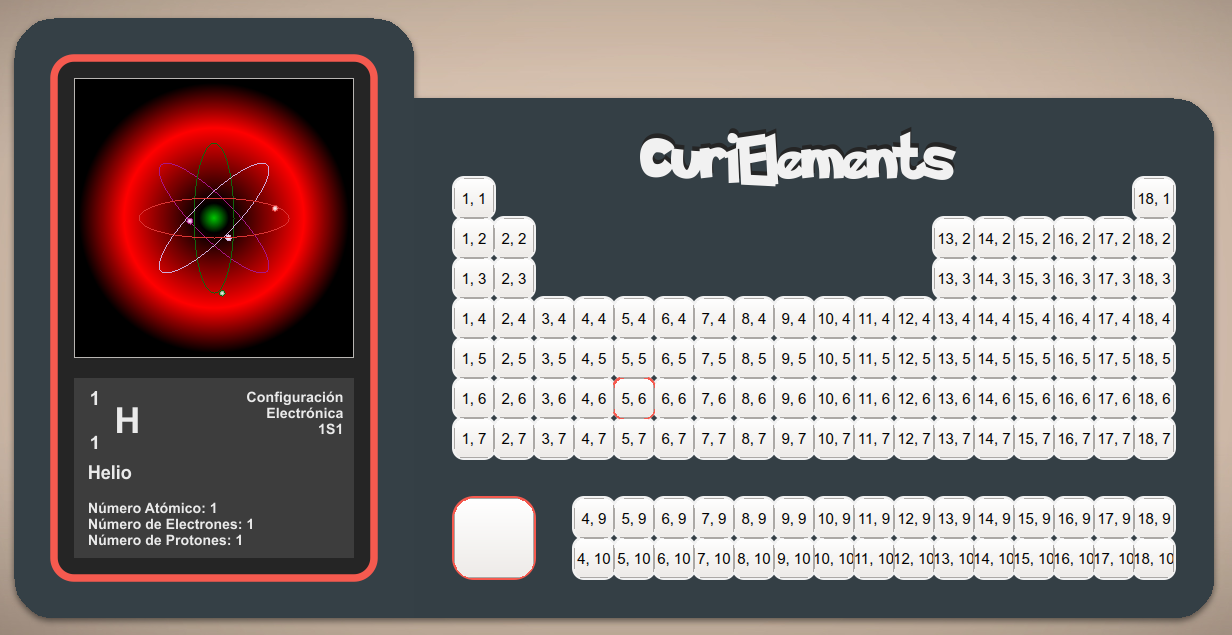
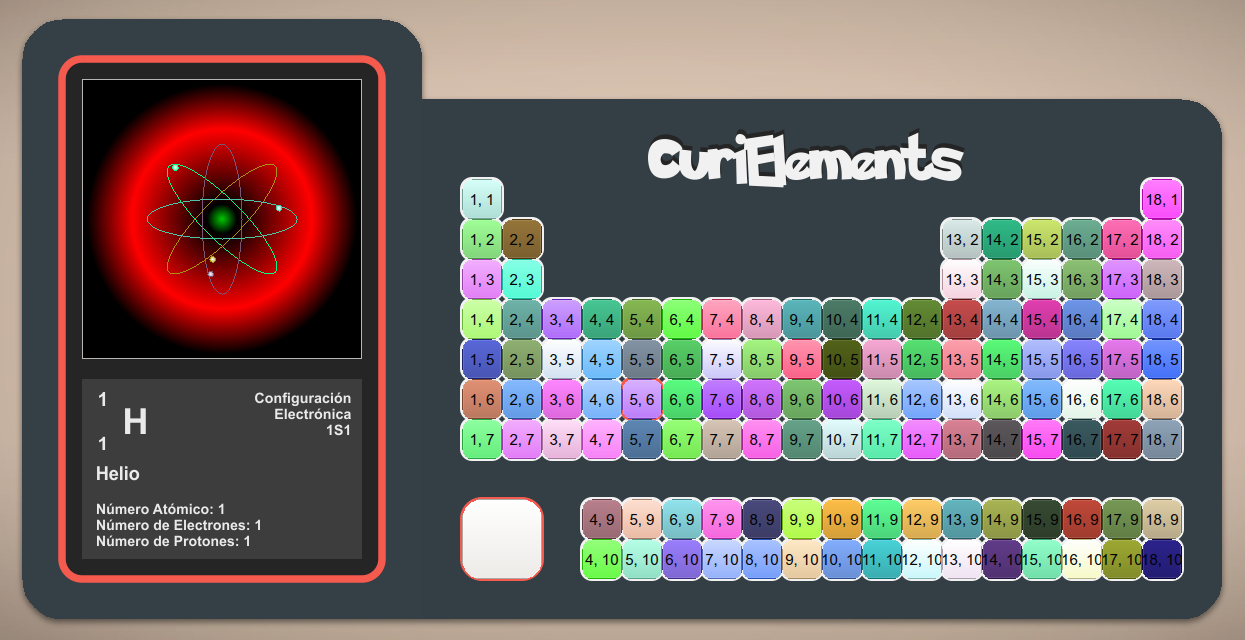
update Image

diff --git a/Background.py b/Background.py
@@ -1,6 +1,7 @@
 import csv
 
-from PyQt5.QtCore import (QPoint, QRect, QSize, Qt)
+from PyQt5.QtCore import (QPoint, QRect, QSize, Qt, qrand)
+from PyQt5.QtGui import QColor
 from PyQt5.QtGui import (QIcon, QPainter, QPixmap, QRegion)
 from PyQt5.QtWidgets import QMessageBox
 from PyQt5.QtWidgets import (qApp, QAction, QWidget)
@@ -45,6 +46,8 @@ class Background(QWidget):
                 btn = CuriButton(QSize(side, side), self)
                 btn.move(offset + coordinate * side)
                 btn.setText("{}, {}".format(coordinate.x(), coordinate.y()))
+                color = QColor(qrand() % 256, qrand() % 256, qrand() % 256)
+                btn.setStyleSheet('background: rgb({}, {}, {});'.format(color.red(), color.green(), color.blue()))
 
         btnSound = CuriButton(QSize(2*side, 2*side), self)
         btnSound.move(11*side, 12*side)
